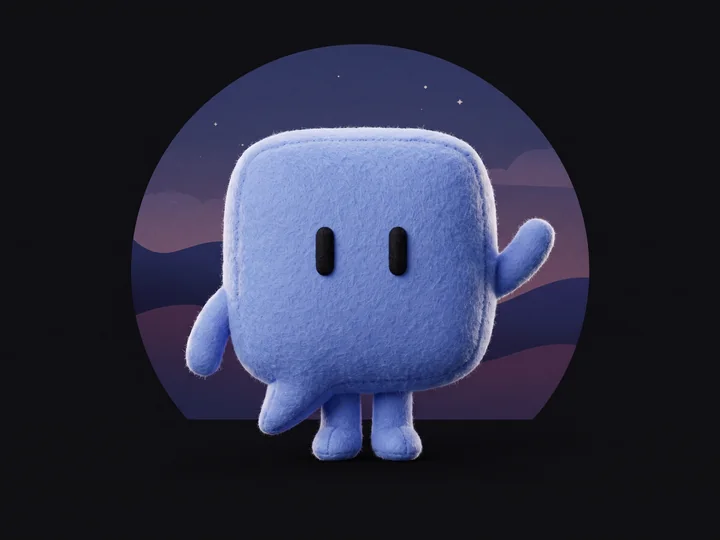
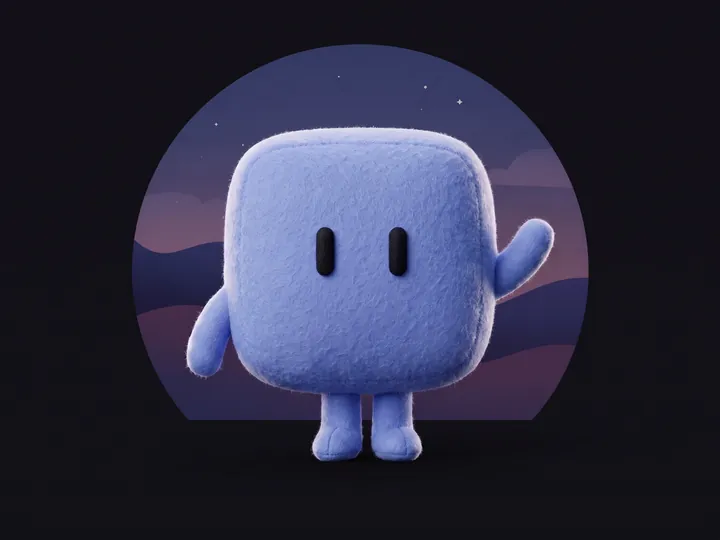
fix: plush with no speech-bubble tail, and a squarer, calmer You step
The welcome's waving plush loses the speech-bubble tail at its side (the
same image, edited), and the bubble-shaped ready-made look becomes a
lilac star: the editor no longer offers the bubble shape, which bots
already wearing it keep.

The onboarding's buttons and selectors (language, segments) move from
pills to the panel's 10 px corners. In the You step the photo buttons
were the browser's grey default: they become glass with an icon each
(upload, the GitHub mark beside the @login), the empty photo is a dashed
ring with the initials and a camera at its corner, and "Tirar a foto"
(which read as "take a photo") is now "Remover foto".

diff --git a/apps/web/src/onboarding/StepProfile.tsx b/apps/web/src/onboarding/StepProfile.tsx
@@ -85,7 +85,7 @@ export function StepProfile({ onBack, onNext }: StepProfileProps) {
     <Frame
       actions={
         <>
-          <button type="button" className="bv-btn" onClick={onBack}>
+          <button type="button" className="bv-btn vidro" onClick={onBack}>
             {o.back}
           </button>
           <button type="button" className="bv-btn cheio bv-principal" disabled={busy} onClick={() => void next()}>
@@ -95,8 +95,14 @@ export function StepProfile({ onBack, onNext }: StepProfileProps) {
       }
     >
       <div className="bv-perfil">
-        <button type="button" className="bv-foto" aria-label={o.photoPick} disabled={busy} onClick={() => picker.current?.click()}>
+        <button type="button" className={`bv-foto ${profile?.photo ? 'com-foto' : ''}`} aria-label={o.photoPick} disabled={busy} onClick={() => picker.current?.click()}>
           {profile?.photo ? <img src={profile.photo} alt="" /> : <span>{initials(name) || '?'}</span>}
+          <i className="bv-foto-selo" aria-hidden="true">
+            <svg viewBox="0 0 24 24">
+              <path d="M4 8.5A2.5 2.5 0 0 1 6.5 6h1.8l1.4-2h4.6l1.4 2h1.8A2.5 2.5 0 0 1 20 8.5v8a2.5 2.5 0 0 1-2.5 2.5h-11A2.5 2.5 0 0 1 4 16.5z" />
+              <circle cx="12" cy="12.5" r="3.2" />
+            </svg>
+          </i>
         </button>
         <input ref={picker} type="file" accept="image/png,image/jpeg,image/webp" hidden onChange={(event) => void pick(event)} />
         <div className="bv-perfil-campos">
@@ -105,12 +111,17 @@ export function StepProfile({ onBack, onNext }: StepProfileProps) {
             <input value={name} maxLength={NAME_MAX} placeholder={o.profileNameHint} onChange={(event) => setName(event.target.value)} />
           </label>
           <div className="bv-perfil-foto-acoes">
-            <button type="button" className="bv-btn" disabled={busy} onClick={() => picker.current?.click()}>
+            <button type="button" className="bv-btn vidro bv-com-icone" disabled={busy} onClick={() => picker.current?.click()}>
+              <svg viewBox="0 0 24 24" aria-hidden="true">
+                <path d="M12 15V4.5M7.5 9 12 4.5 16.5 9M5 15v2.5A2.5 2.5 0 0 0 7.5 20h9a2.5 2.5 0 0 0 2.5-2.5V15" />
+              </svg>
               {o.photoPick}
             </button>
             {profile?.github && (
-              <button type="button" className="bv-btn" disabled={busy} onClick={() => void run(() => saveProfile({ from_github: true }))}>
-                {o.photoGitHub.replace('{login}', profile.github)}
+              <button type="button" className="bv-btn vidro bv-com-icone" disabled={busy} onClick={() => void run(() => saveProfile({ from_github: true }))}>
+                <img src="/marcas/github.svg" width={15} height={15} alt="" />
+                {o.photoGitHub}
+                <small className="bv-login">@{profile.github}</small>
               </button>
             )}
             {profile?.photo && (

diff --git a/apps/web/src/onboarding/onboarding.css b/apps/web/src/onboarding/onboarding.css
@@ -159,9 +159,9 @@
 .bv-btn {
   flex: none;
   height: 36px;
-  padding: 0 18px;
+  padding: 0 16px;
   border: 0;
-  border-radius: 999px;
+  border-radius: var(--raio-item);
   font: 500 14px/18px var(--sans);
   white-space: nowrap;
   cursor: pointer;
@@ -485,7 +485,7 @@
   display: inline-flex;
   align-self: flex-start;
   padding: 3px;
-  border-radius: 999px;
+  border-radius: var(--raio-item);
   background: var(--vidro-7);
   box-shadow: inset 0 0 0 1px var(--fio);
 }
@@ -494,7 +494,7 @@
   height: 30px;
   padding: 0 16px;
   border: 0;
-  border-radius: 999px;
+  border-radius: 7px;
   background: transparent;
   color: var(--nevoa);
   font: 500 13px/16px var(--sans);
@@ -853,31 +853,77 @@
   gap: 24px;
 }
 
+/* Empty, a dashed ring with the initials, inviting a photo; filled, the photo. A camera at the corner either way. */
 .bv-foto {
+  position: relative;
   display: grid;
   flex: none;
-  width: 112px;
-  height: 112px;
+  width: 104px;
+  height: 104px;
   padding: 0;
-  overflow: hidden;
-  border: 0;
+  border: 1px dashed rgb(255 255 255 / 22%);
   border-radius: 50%;
-  background: #1c1c22;
-  box-shadow: inset 0 0 0 1px rgb(255 255 255 / 12%);
-  color: var(--giz);
-  font: 500 34px/1 var(--sans);
+  background: radial-gradient(circle at 50% 30%, rgb(255 255 255 / 7%), rgb(255 255 255 / 2%) 70%);
+  color: var(--nevoa);
+  font: 400 30px/1 var(--sans);
+  letter-spacing: -0.01em;
   cursor: pointer;
   place-items: center;
+  transition: border-color 160ms ease;
+}
+
+.bv-foto.com-foto {
+  border: 0;
+  background: none;
 }
 
 .bv-foto img {
   width: 100%;
   height: 100%;
+  border-radius: 50%;
+  box-shadow: 0 0 0 1px rgb(255 255 255 / 10%);
   object-fit: cover;
 }
 
 .bv-foto:hover {
-  box-shadow: inset 0 0 0 1px rgb(255 255 255 / 30%);
+  border-color: rgb(255 255 255 / 45%);
+}
+
+.bv-foto-selo {
+  position: absolute;
+  right: 0;
+  bottom: 2px;
+  display: grid;
+  width: 30px;
+  height: 30px;
+  place-items: center;
+  border-radius: 50%;
+  background: var(--giz);
+  box-shadow: 0 0 0 3px #101014;
+  color: var(--noite);
+}
+
+.bv-foto-selo svg,
+.bv-com-icone svg {
+  width: 15px;
+  height: 15px;
+  fill: none;
+  stroke: currentColor;
+  stroke-width: 1.7;
+  stroke-linecap: round;
+  stroke-linejoin: round;
+}
+
+.bv-com-icone {
+  display: inline-flex;
+  align-items: center;
+  gap: 8px;
+  padding: 0 14px 0 12px;
+}
+
+.bv-login {
+  color: var(--nevoa);
+  font: 12px/16px var(--mono);
 }
 
 .bv-foto:focus-visible {

diff --git a/apps/web/src/avatars.ts b/apps/web/src/avatars.ts
@@ -28,7 +28,7 @@ export const FINISHES: Finish[] = ['solid', 'flat', 'pixel']
 export const TEMPLATES: { shape: string; color: string; finish: Finish; art: string }[] = [
   { shape: 'monitor', color: '#e8754a', finish: 'solid', art: '/mascotes/modelo-monitor-solido.webp' },
   { shape: 'monitor', color: '#6f95f2', finish: 'pixel', art: '/mascotes/modelo-monitor-pixel.webp' },
-  { shape: 'chat', color: '#b4a3f5', finish: 'flat', art: '/mascotes/modelo-balao-chapado.webp' },
+  { shape: 'star', color: '#b4a3f5', finish: 'flat', art: '/mascotes/modelo-estrela-chapado.webp' },
   { shape: 'magnifier', color: '#6f95f2', finish: 'pixel', art: '/mascotes/modelo-lupa-pixel.webp' },
   { shape: 'shield', color: '#5fd08a', finish: 'solid', art: '/mascotes/modelo-escudo-solido.webp' },
   { shape: 'rocket', color: '#ec7fb0', finish: 'pixel', art: '/mascotes/modelo-foguete-pixel.webp' },
@@ -57,7 +57,9 @@ const SHAPE_LIST: AvatarDefinition[] = [
 ]
 
 export const SHAPES: Record<string, AvatarDefinition> = Object.fromEntries(SHAPE_LIST.map((shape) => [shape.id, shape]))
-export const SHAPE_IDS: string[] = SHAPE_LIST.map((shape) => shape.id)
+/** Shapes the editor offers: the speech bubble's tail looked odd, so it is kept only for bots that already wear it. */
+const RETIRED = new Set(['chat'])
+export const SHAPE_IDS: string[] = SHAPE_LIST.map((shape) => shape.id).filter((id) => !RETIRED.has(id))
 
 /** Bot colors; each has a stage light engraved in public/luz/palco-<hex>.webp. */
 export const COLORS: string[] = ['#e8754a', '#6f95f2', '#5fd08a', '#b4a3f5', '#d9c29a', '#ec7fb0']

diff --git a/apps/web/src/onboarding/texts.ts b/apps/web/src/onboarding/texts.ts
@@ -21,8 +21,8 @@ const en = {
   profileName: 'Your name',
   profileNameHint: 'How the AIs call you',
   photoPick: 'Pick a photo',
-  photoGitHub: 'Use @{login}\'s GitHub photo',
-  photoRemove: 'Remove the photo',
+  photoGitHub: 'GitHub photo',
+  photoRemove: 'Remove photo',
   photoUnreadable: 'That image could not be read; try a PNG or JPEG.',
   profileNote: 'Optional. The photo is shrunk to 256 px and kept next to raiox\'s index; nothing is uploaded.',
   start: 'Start',
@@ -111,9 +111,9 @@ const pt: typeof en = {
   profileText: 'As suas IAs trabalham para você: seu nome e sua foto aparecem no canto do painel. Ficam só neste computador.',
   profileName: 'Seu nome',
   profileNameHint: 'Como as IAs chamam você',
-  photoPick: 'Escolher uma foto',
-  photoGitHub: 'Usar a foto do GitHub (@{login})',
-  photoRemove: 'Tirar a foto',
+  photoPick: 'Escolher foto',
+  photoGitHub: 'Foto do GitHub',
+  photoRemove: 'Remover foto',
   photoUnreadable: 'Não deu para ler essa imagem; tente um PNG ou JPEG.',
   profileNote: 'Opcional. A foto é reduzida para 256 px e fica junto do índice do raiox; nada é enviado.',
   start: 'Começar',

diff --git a/apps/web/src/components/language.css b/apps/web/src/components/language.css
@@ -11,7 +11,7 @@
   display: inline-flex;
   flex: none;
   padding: 3px;
-  border-radius: 999px;
+  border-radius: var(--raio-item);
   background: rgb(255 255 255 / 6%);
   box-shadow: inset 0 0 0 1px var(--fio);
 }
@@ -24,7 +24,7 @@
   height: 26px;
   padding: 0 12px;
   border: 0;
-  border-radius: 999px;
+  border-radius: 7px;
   background: transparent;
   color: var(--nevoa);
   font: 500 12px/14px var(--sans);

diff --git a/THIRD_PARTY_NOTICES.md b/THIRD_PARTY_NOTICES.md
@@ -42,6 +42,14 @@ filled light for the dark panel. The package is MIT licensed, Copyright (c)
 LobeHub. The marks themselves are trademarks of their owners; raiox shows
 them only to say which AI a conversation, a plan or a cost belongs to.
 
+## GitHub mark (simple-icons, CC0)
+
+`apps/web/public/marcas/github.svg` comes from the `simple-icons` package,
+version 16.38.0 (https://github.com/simple-icons/simple-icons), released
+under CC0 1.0, filled light for the dark panel. The mark is a trademark of
+GitHub; raiox shows it only on the button that fetches the person's GitHub
+photo.
+
 ## Fonts (SIL Open Font License 1.1)
 
 The panel loads these fonts from their npm packages at build time; the font
